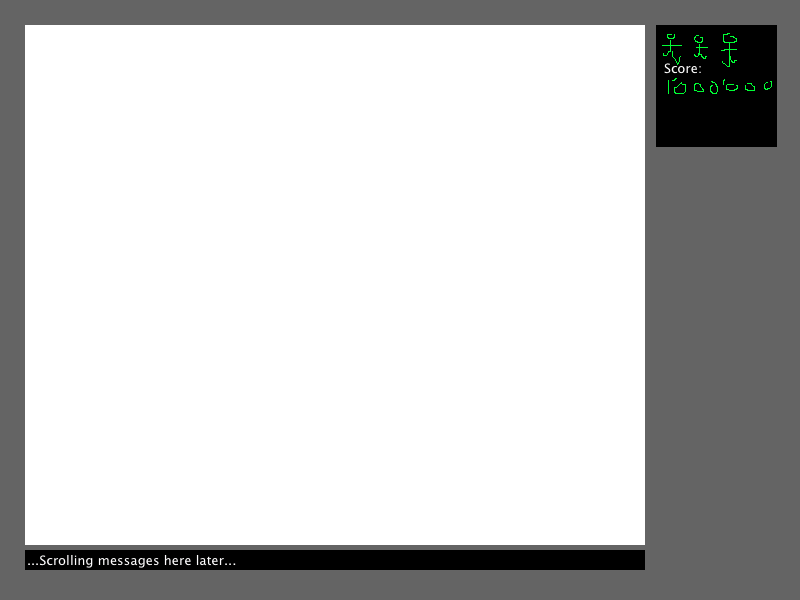
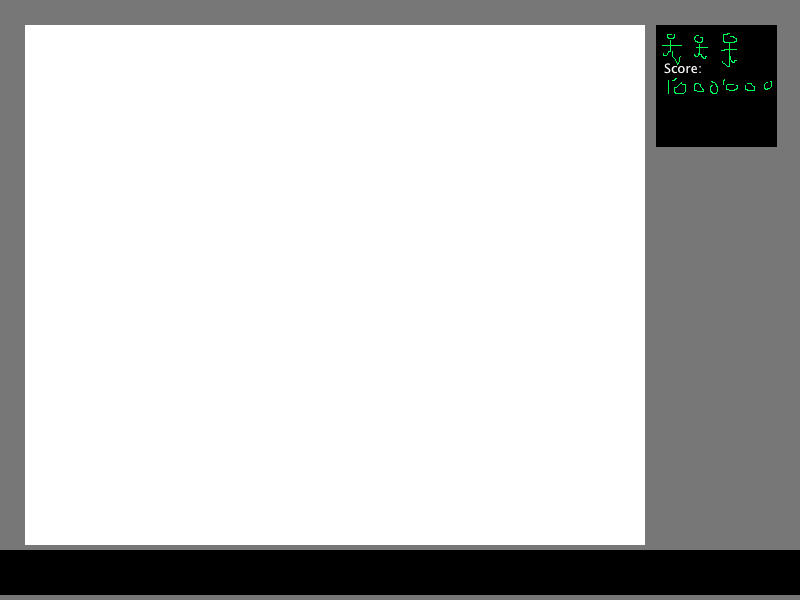
Added scrolling messages. The font I added (texasled.ttf) does not work on OSX 10.6, it is drawn black and with the wrong size. Got the same problems with other fonts, so I think it's a Gosu issue. For the moment, the messages uses default_font_name() since it is rendered ok.

Changed region(s): [[0.0, 0.9, 1.0, 1.0]]

diff --git a/models/playstate.rb b/models/playstate.rb
@@ -21,9 +21,16 @@ class PlayState < Chingu::GameState
     #@background = Gosu::Image.new($window, "media/debug.png")
     
     @hud_overlay = Gosu::Image.new($window, File.join("media","overlay.png") )
+    @messages = []
+    @current_message = nil
+    @message_x = 0
+    @message_img = nil
+    
     
     @scroll = nil
     @scroll_steps = 0
+    
+    show_message("Kill everything, and stay alive.")
     
   end
   
@@ -58,6 +65,10 @@ class PlayState < Chingu::GameState
     @room_y = ry
     @entry_x = ex
     @entry_y = ey
+    
+    # TODO: change message to "chicken, fight like a robot" if there are droids left in room
+    msg = "the humanoid must not escape!"
+    show_message(msg)    
   end
 
   def show_new_room
@@ -70,7 +81,7 @@ class PlayState < Chingu::GameState
     
     if @player
       # Player only switched rooms
-      @room.close(@opposite_directions[@scroll])
+      @room.close(@opposite_directions[@scroll])      
     else
       # Player was dead
       @entry_x = 90
@@ -153,8 +164,27 @@ class PlayState < Chingu::GameState
       else
         @pop_at = Time.now + 2
         puts "Game Over at #{@pop_at} (is not #{Time.now})"
+        show_message("game over")
       end
     end
+  
+    # Update messages
+    if @message_img
+      @message_x -= 10
+      if @message_x <= @message_remove_pos
+        @current_message = nil
+        @message_img = nil
+      end
+    else
+      unless @messages.empty?
+        @current_message = @messages.shift
+        @message_x = 800
+        # media/texasled.ttf does not work on OSX
+        @message_img = Gosu::Image.from_text($window,@current_message,default_font_name(),50) 
+        @message_remove_pos = -@message_img.width
+      end
+    end
+    
         
   end
   
@@ -166,7 +196,15 @@ class PlayState < Chingu::GameState
   
   def draw_hud
     @hud_overlay.draw(0,0,200)
-    
+    if @message_img
+      @message_img.draw( @message_x, 550, 200 )
+    end
+  end
+  
+  def show_message( msg )
+    @messages << msg.upcase
+    #puts "Message '#{msg}' added to message queue"
+    #puts "Messages in queue: #{@messages.length}"
   end
   
 end

diff --git a/models/player.rb b/models/player.rb
@@ -63,6 +63,7 @@ class Player < Chingu::GameObject
     after(1000) do 
       hide!
       spawn_gibs 
+      $window.current_game_state.show_message("got the humanoid! got the intruder!")
     end.then do
       after(3000) { @status = :destroy }
     end
